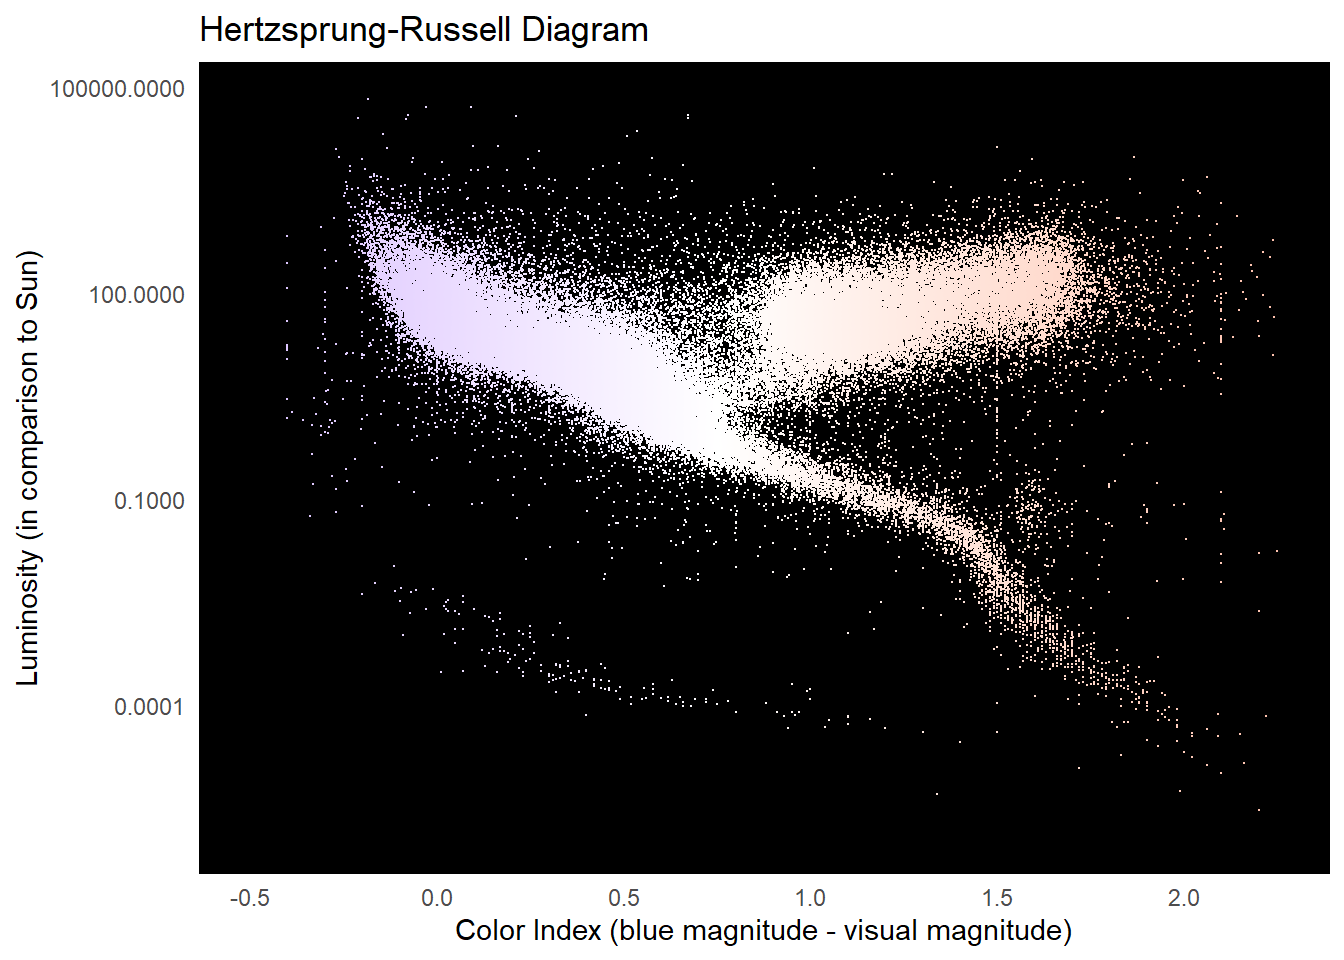
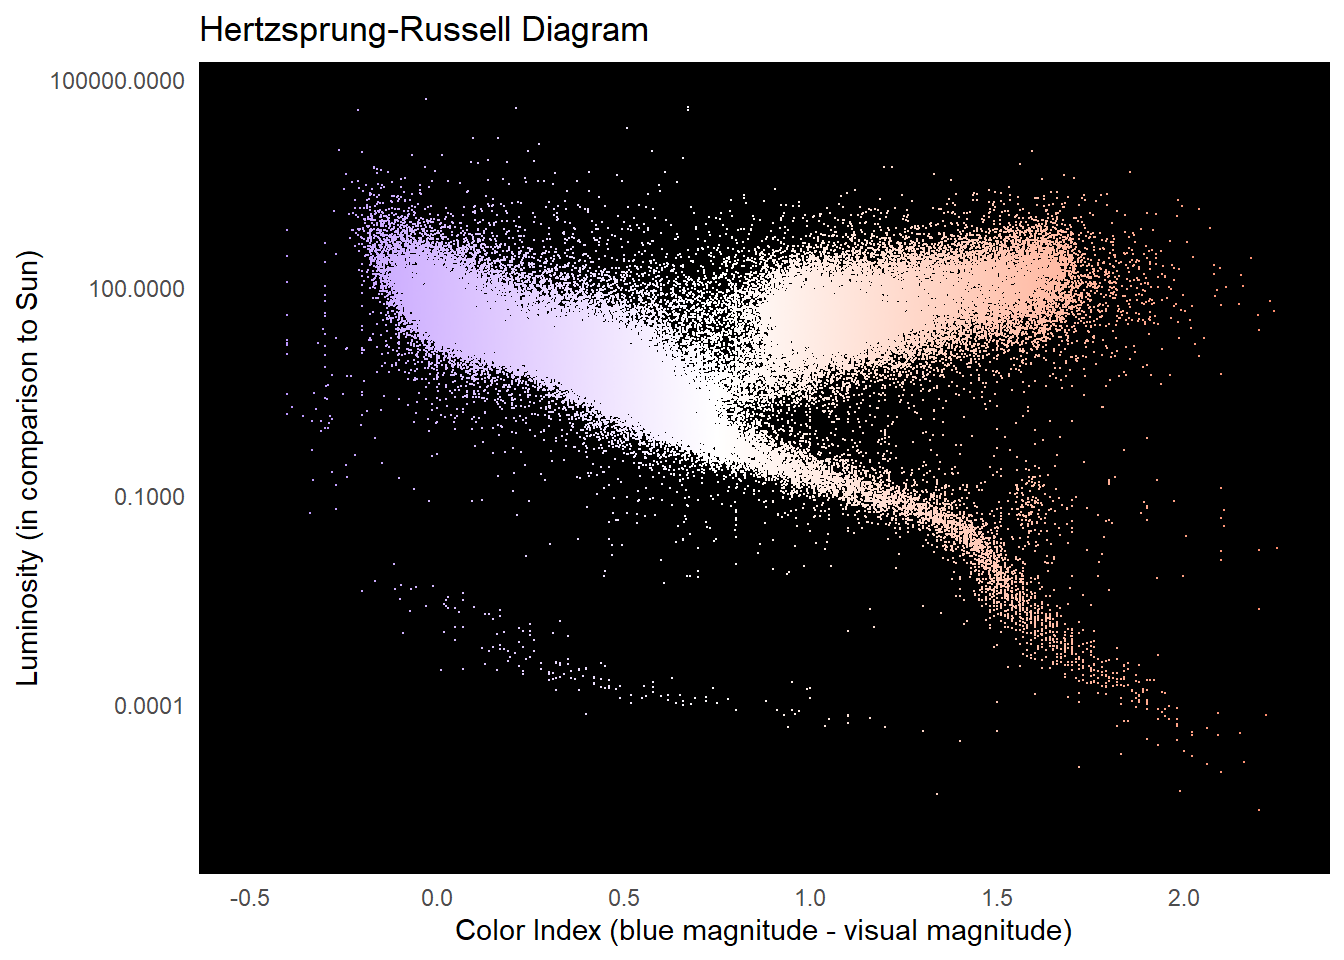
took out variable stars

diff --git a/docs/posts/2025-03-02-hertzsprung-russell/index.html b/docs/posts/2025-03-02-hertzsprung-russell/index.html
@@ -250,7 +250,7 @@ pre > code.sourceCode > span > a:first-child::before { text-decoration: underlin
 <p>This year, I recreated the exercises in R. My favorite is on recreating the Hertzsprung-Russell diagram. In class, they recreate it using an exoplanet database, but below, we recreate using a slightly larger catalog of stars that includes stars that we haven’t yet found exoplanets around.</p>
 <section id="loading-the-data-and-finding-the-right-margins" class="level2">
 <h2 class="anchored" data-anchor-id="loading-the-data-and-finding-the-right-margins">Loading the data and finding the right margins</h2>
-<p>The dataset is a bit large, so I’m afraid you will need to download it yourself. I used the latest version of the HYG (Hipparcos, Yale, Gliese) Stellar database, as kept <a href="https://codeberg.org/astronexus/hyg">here</a>. In glancing at the data, it looks like stars have a maximum distance that is creating a lot of outliers, so if you are recreating your graph using this dataset, please use the same filter in my code.</p>
+<p>The dataset is a bit large, so I’m afraid you will need to download it yourself. I used the latest version of the HYG (Hipparcos, Yale, Gliese) Stellar database, as kept <a href="https://codeberg.org/astronexus/hyg">here</a>. In glancing at the data, it looks like stars have a maximum distance that is creating a lot of outliers, so if you are recreating your graph using this dataset, please use the same filter in my code (I also filtered out variable stars, as they don’t have a set luminosity).</p>
 <p>Now let’s graph it. The easiest way to plot an H-R diagram is with the color index, which is also related to surface temperature and spectral type, on the x-axis and the luminosity, which is also related to absolute magnitude<a href="#fn1" class="footnote-ref" id="fnref1" role="doc-noteref"><sup>1</sup></a> on the y axis.</p>
 <div class="cell">
 <details open="" class="code-fold">
@@ -260,15 +260,16 @@ pre > code.sourceCode > span > a:first-child::before { text-decoration: underlin
 <span id="cb1-3"><a href="#cb1-3" aria-hidden="true" tabindex="-1"></a><span class="fu">options</span>(<span class="at">scipen =</span> <span class="dv">999</span>)</span>
 <span id="cb1-4"><a href="#cb1-4" aria-hidden="true" tabindex="-1"></a> </span>
 <span id="cb1-5"><a href="#cb1-5" aria-hidden="true" tabindex="-1"></a>stars <span class="ot">&lt;-</span> <span class="fu">read_csv</span>(<span class="st">"data/hygdata_v41.csv"</span>) <span class="sc">|&gt;</span> </span>
-<span id="cb1-6"><a href="#cb1-6" aria-hidden="true" tabindex="-1"></a>    <span class="fu">filter</span>(dist <span class="sc">&lt;</span> <span class="dv">100000</span>)</span>
-<span id="cb1-7"><a href="#cb1-7" aria-hidden="true" tabindex="-1"></a></span>
-<span id="cb1-8"><a href="#cb1-8" aria-hidden="true" tabindex="-1"></a>p <span class="ot">&lt;-</span>stars <span class="sc">|&gt;</span> </span>
-<span id="cb1-9"><a href="#cb1-9" aria-hidden="true" tabindex="-1"></a>  <span class="fu">ggplot</span>(<span class="fu">aes</span>(<span class="at">x=</span>ci, <span class="at">y=</span>lum)) <span class="sc">+</span></span>
-<span id="cb1-10"><a href="#cb1-10" aria-hidden="true" tabindex="-1"></a>  <span class="fu">geom_point</span>(<span class="at">size=</span><span class="fl">0.02</span>) <span class="sc">+</span></span>
-<span id="cb1-11"><a href="#cb1-11" aria-hidden="true" tabindex="-1"></a>  <span class="fu">scale_y_log10</span>() <span class="sc">+</span></span>
-<span id="cb1-12"><a href="#cb1-12" aria-hidden="true" tabindex="-1"></a>  <span class="fu">theme_bw</span>()</span>
-<span id="cb1-13"><a href="#cb1-13" aria-hidden="true" tabindex="-1"></a></span>
-<span id="cb1-14"><a href="#cb1-14" aria-hidden="true" tabindex="-1"></a>p</span></code><button title="Copy to Clipboard" class="code-copy-button"><i class="bi"></i></button></pre></div>
+<span id="cb1-6"><a href="#cb1-6" aria-hidden="true" tabindex="-1"></a>    <span class="fu">filter</span>(dist <span class="sc">&lt;</span> <span class="dv">100000</span>,</span>
+<span id="cb1-7"><a href="#cb1-7" aria-hidden="true" tabindex="-1"></a>           <span class="fu">is.na</span>(var))</span>
+<span id="cb1-8"><a href="#cb1-8" aria-hidden="true" tabindex="-1"></a></span>
+<span id="cb1-9"><a href="#cb1-9" aria-hidden="true" tabindex="-1"></a>p <span class="ot">&lt;-</span>stars <span class="sc">|&gt;</span> </span>
+<span id="cb1-10"><a href="#cb1-10" aria-hidden="true" tabindex="-1"></a>  <span class="fu">ggplot</span>(<span class="fu">aes</span>(<span class="at">x=</span>ci, <span class="at">y=</span>lum)) <span class="sc">+</span></span>
+<span id="cb1-11"><a href="#cb1-11" aria-hidden="true" tabindex="-1"></a>  <span class="fu">geom_point</span>(<span class="at">size=</span><span class="fl">0.02</span>) <span class="sc">+</span></span>
+<span id="cb1-12"><a href="#cb1-12" aria-hidden="true" tabindex="-1"></a>  <span class="fu">scale_y_log10</span>() <span class="sc">+</span></span>
+<span id="cb1-13"><a href="#cb1-13" aria-hidden="true" tabindex="-1"></a>  <span class="fu">theme_bw</span>()</span>
+<span id="cb1-14"><a href="#cb1-14" aria-hidden="true" tabindex="-1"></a></span>
+<span id="cb1-15"><a href="#cb1-15" aria-hidden="true" tabindex="-1"></a>p</span></code><button title="Copy to Clipboard" class="code-copy-button"><i class="bi"></i></button></pre></div>
 </details>
 <div class="cell-output-display">
 <div class="quarto-figure quarto-figure-center">

diff --git a/docs/posts.html b/docs/posts.html
@@ -215,7 +215,7 @@ window.Quarto = {
 
 <div class="quarto-listing quarto-listing-container-grid" id="listing-listing">
 <div class="list grid quarto-listing-cols-3">
-<div class="g-col-1" data-index="0" data-categories="R,Science" data-listing-date-sort="1740891600000" data-listing-file-modified-sort="1741053404340" data-listing-date-modified-sort="NaN" data-listing-reading-time-sort="3" data-listing-word-count-sort="568">
+<div class="g-col-1" data-index="0" data-categories="R,Science" data-listing-date-sort="1740891600000" data-listing-file-modified-sort="1741083914725" data-listing-date-modified-sort="NaN" data-listing-reading-time-sort="3" data-listing-word-count-sort="592">
 <a href="./posts/2025-03-02-hertzsprung-russell/index.html" class="quarto-grid-link">
 <div class="quarto-grid-item card h-100 card-left">
 <p class="card-img-top">
